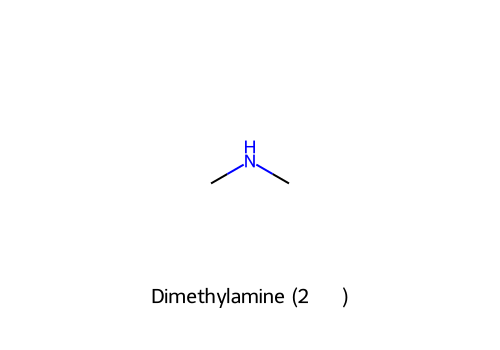
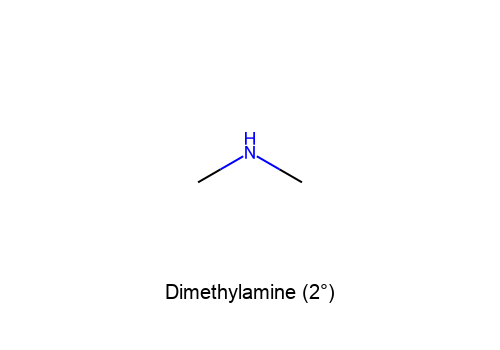
Structures: redraw biotin, vitamin D3 and the 1°/2°/3° amines
Rendered with RDKit 2025.09 at the original sizes; legends drawn with
Pillow so the degree sign shows.
- biotin.png: natural all-cis ring fusion (3aS,4S,6aR); was trans-fused.
- cholecalciferol.png: 3β (3S) OH; was the 3R epimer.
- methylamine/dimethylamine/trimethylamine.png: "(1°)", "(2°)", "(3°)"
  labels now show the degree sign.
Contact sheets and INDEX.md notes updated.

Changed region(s): [[0.3, 0.8, 0.72, 0.8857], [0.39, 0.3714, 0.6, 0.5429]]

diff --git a/figures/structures/INDEX.md b/figures/structures/INDEX.md
@@ -54,9 +54,9 @@ Every structure has a text description (use it as alt text) and, where needed, a
 | ch06-carboxylic-acids-esters | `figures/structures/ch06-carboxylic-acids-esters/aspirin.png` | Aspirin (ester) | C9H8O4 | Structure of aspirin, C9H8O4 (ester). |  |
 | ch07-amines-amides | `figures/structures/ch07-amines-amides/acetamide.png` | Acetamide | C2H5NO | Structure of acetamide, C2H5NO. |  |
 | ch07-amines-amides | `figures/structures/ch07-amines-amides/acetaminophen.png` | Acetaminophen (amide) | C8H9NO2 | Structure of acetaminophen, C8H9NO2 (amide). |  |
-| ch07-amines-amides | `figures/structures/ch07-amines-amides/methylamine.png` | Methylamine (1°) | CH5N | Structure of methylamine, CH5N (1°). | **Needs redraw:** the degree sign is missing from the baked-in label ("(1  )"). |
-| ch07-amines-amides | `figures/structures/ch07-amines-amides/dimethylamine.png` | Dimethylamine (2°) | C2H7N | Structure of dimethylamine, C2H7N (2°). | **Needs redraw:** the degree sign is missing from the baked-in label. |
-| ch07-amines-amides | `figures/structures/ch07-amines-amides/trimethylamine.png` | Trimethylamine (3°) | C3H9N | Structure of trimethylamine, C3H9N (3°). | **Needs redraw:** the degree sign is missing from the baked-in label. |
+| ch07-amines-amides | `figures/structures/ch07-amines-amides/methylamine.png` | Methylamine (1°) | CH5N | Structure of methylamine, CH5N (1°). | Redrawn 2026-11-11: label now shows the degree sign. |
+| ch07-amines-amides | `figures/structures/ch07-amines-amides/dimethylamine.png` | Dimethylamine (2°) | C2H7N | Structure of dimethylamine, C2H7N (2°). | Redrawn 2026-11-11: label now shows the degree sign. |
+| ch07-amines-amides | `figures/structures/ch07-amines-amides/trimethylamine.png` | Trimethylamine (3°) | C3H9N | Structure of trimethylamine, C3H9N (3°). | Redrawn 2026-11-11: label now shows the degree sign. |
 | ch07-amines-amides | `figures/structures/ch07-amines-amides/aniline.png` | Aniline | C6H7N | Structure of aniline, C6H7N. |  |
 | ch07-amines-amides | `figures/structures/ch07-amines-amides/pyridine.png` | Pyridine (heterocycle) | C5H5N | Structure of pyridine, C5H5N (heterocycle). |  |
 | ch07-amines-amides | `figures/structures/ch07-amines-amides/lidocaine.png` | Lidocaine (amide-type dental anesthetic) | C14H22N2O | Structure of lidocaine, C14H22N2O (amide-type dental anesthetic). |  |
@@ -90,8 +90,8 @@ Every structure has a text description (use it as alt text) and, where needed, a
 | ch11-enzymes-vitamins | `figures/structures/ch11-enzymes-vitamins/niacin.png` | Niacin (vitamin B3) | C6H5NO2 | Structure of niacin, C6H5NO2 (vitamin B3). |  |
 | ch11-enzymes-vitamins | `figures/structures/ch11-enzymes-vitamins/pyridoxine.png` | Pyridoxine (vitamin B6) | C8H11NO3 | Structure of pyridoxine, C8H11NO3 (vitamin B6). |  |
 | ch11-enzymes-vitamins | `figures/structures/ch11-enzymes-vitamins/retinol.png` | Retinol (vitamin A) | C20H30O | Structure of retinol, C20H30O (vitamin A). |  |
-| ch11-enzymes-vitamins | `figures/structures/ch11-enzymes-vitamins/cholecalciferol.png` | Vitamin D3 (cholecalciferol) | C27H44O | Structure of vitamin D3, C27H44O (cholecalciferol). | **Needs redraw:** the 3-OH is hashed (3R, the 3-epimer); vitamin D3 has the 3β (3S) OH. |
-| ch11-enzymes-vitamins | `figures/structures/ch11-enzymes-vitamins/biotin.png` | Biotin (vitamin B7) | C10H16N2O3S | Structure of biotin, C10H16N2O3S (vitamin B7). | **Needs redraw:** the ring fusion is drawn trans; biotin is all-cis. |
+| ch11-enzymes-vitamins | `figures/structures/ch11-enzymes-vitamins/cholecalciferol.png` | Vitamin D3 (cholecalciferol) | C27H44O | Structure of vitamin D3, C27H44O (cholecalciferol). | Redrawn 2026-11-11 with the 3β (3S) OH, the natural configuration. |
+| ch11-enzymes-vitamins | `figures/structures/ch11-enzymes-vitamins/biotin.png` | Biotin (vitamin B7) | C10H16N2O3S | Structure of biotin, C10H16N2O3S (vitamin B7). | Redrawn 2026-11-11 with the natural all-cis (3aS,4S,6aR) ring fusion. |
 | ch11-enzymes-vitamins | `figures/structures/ch11-enzymes-vitamins/folic-acid.png` | Folic acid (vitamin B9) | C19H19N7O6 | Structure of folic acid, C19H19N7O6 (vitamin B9). |  |
 | ch11-enzymes-vitamins | `figures/structures/ch11-enzymes-vitamins/riboflavin.png` | Riboflavin (vitamin B2) | C17H20N4O6 | Structure of riboflavin, C17H20N4O6 (vitamin B2). |  |
 | ch11-enzymes-vitamins | `figures/structures/ch11-enzymes-vitamins/vitamin-k1.png` | Vitamin K1 (phylloquinone) | C31H46O2 | Structure of vitamin K1, C31H46O2 (phylloquinone). |  |
